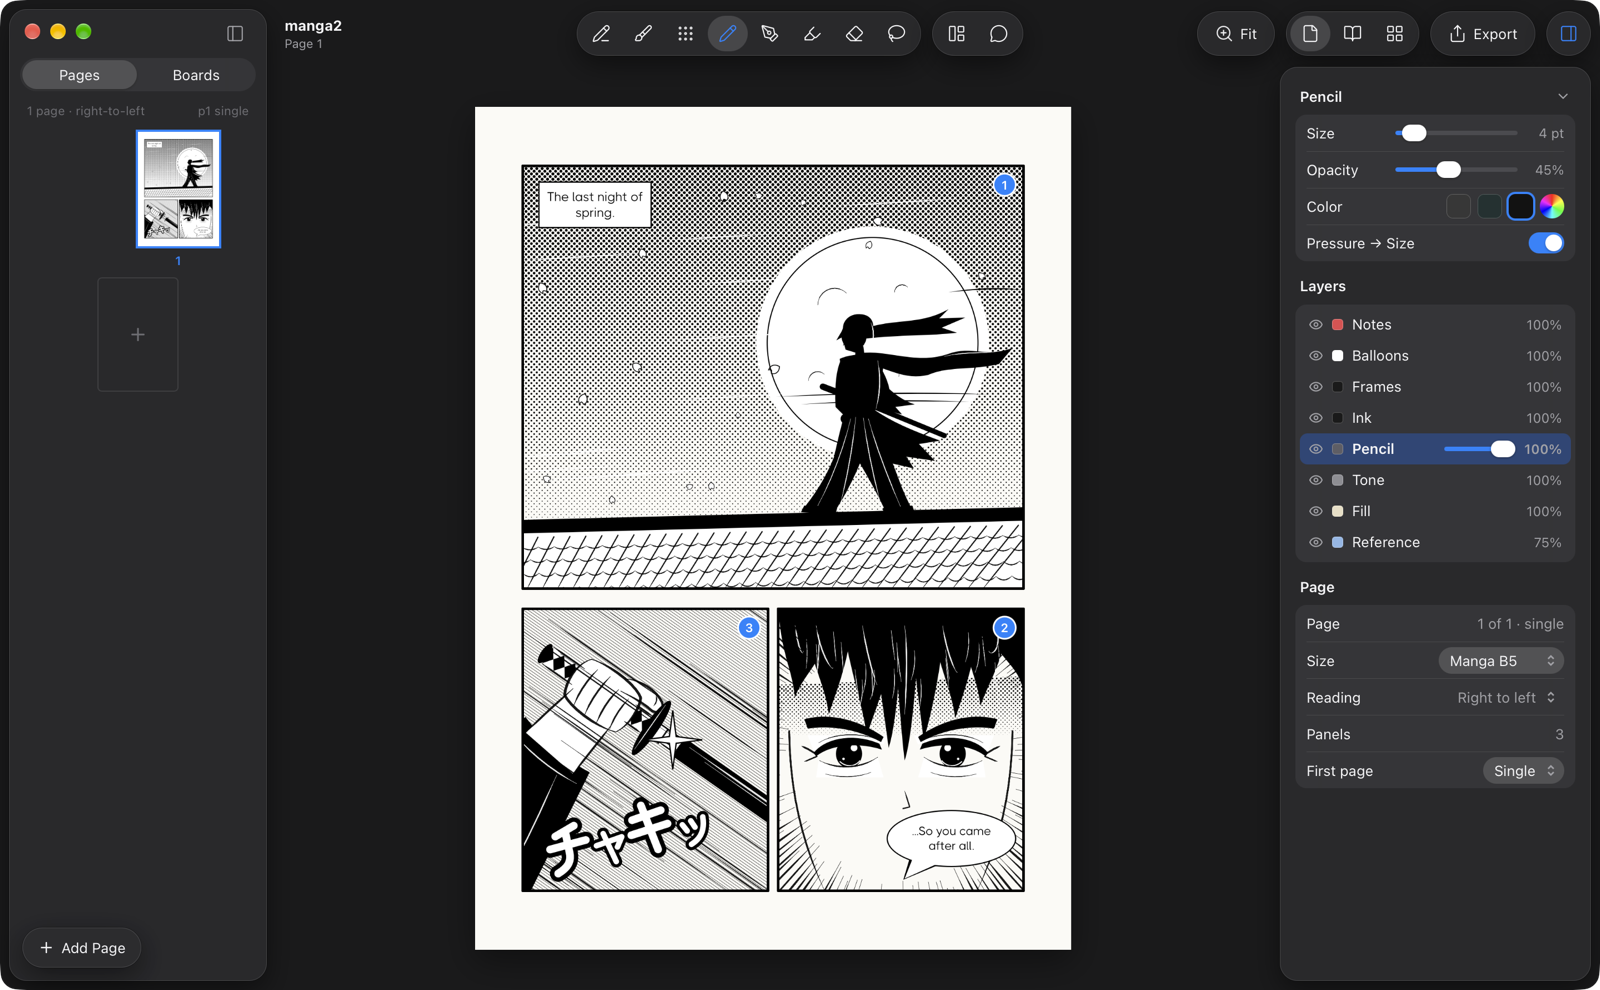
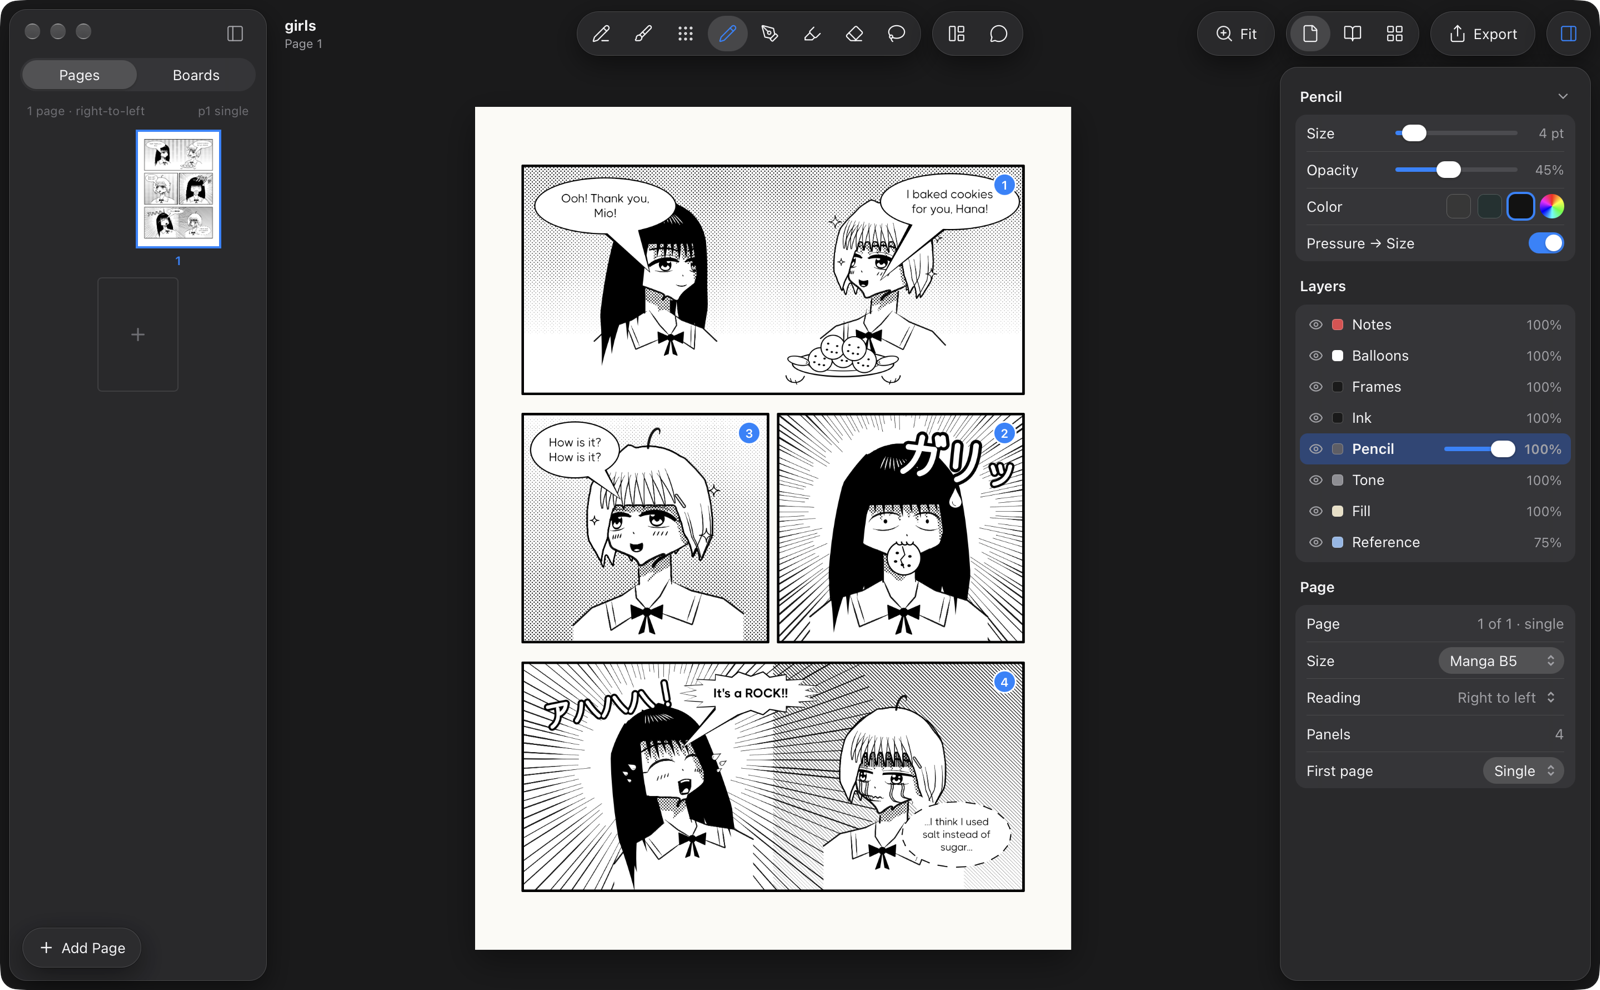
docs: replace README screenshots with the head-model pages

diff --git a/README.md b/README.md
@@ -13,20 +13,32 @@ Because everything goes through `sb`, an agent such as Claude can draw pages too
 
 ![Recent projects](docs/images/welcome.png)
 
+![Editor with the chibi page](docs/images/editor-chibi.png)
+
 ## Drawn with `sb`
 
-| A page drawn through the CLI | Pose references from `sb pose draw` |
+| Story page | Chibi page | Action page |
+|---|---|---|
+| ![Girls page](docs/images/page-girls.png) | ![Chibi page](docs/images/page-chibi.png) | ![Samurai page](docs/images/page-samurai.png) |
+
+The faces come from a small head model built on Loomis construction:
+
+- Eyes, brows, nose, mouth and ears sit on a 3D head surface that is rotated and projected, so three-quarter and profile views foreshorten correctly.
+- The face outline is traced from the projected head, and hair is built from tapered 3D clumps.
+- Shading is cast shadows (bangs on the forehead, jaw on the neck) filled with `draw tone`.
+- Style presets cover male, female and chibi faces. Expressions cover laughing, crying, shock, gloom lines, sweat drops, blush and sparkles.
+
+Each page is assembled with these commands:
+
+| Command | Used for |
 |---|---|
-| ![Samurai page](docs/images/page-samurai.png) | ![Pose study](docs/images/page-poses.png) |
+| `page template`, `panel split` | the panel layout |
+| `draw svg` | solid shapes |
+| `draw path` | tapered ink lines |
+| `draw tone` | screentone |
+| `balloon add` | dialogue |
 
-The samurai page uses:
-
-- `page template` for the panel layout;
-- `pose draw` for the figure's skeleton;
-- `draw tone` for the gradient screentone sky and line tone;
-- `draw path` for tapered ink lines;
-- `draw svg` for solid shapes;
-- `balloon add` for the narration box and speech balloon.
+The samurai's full figure is traced over a `pose draw` skeleton. The sound effects (ガリッ, アハハハ, ズーン, チャキッ) are hand-lettered as paths.
 
 ## Features
 
